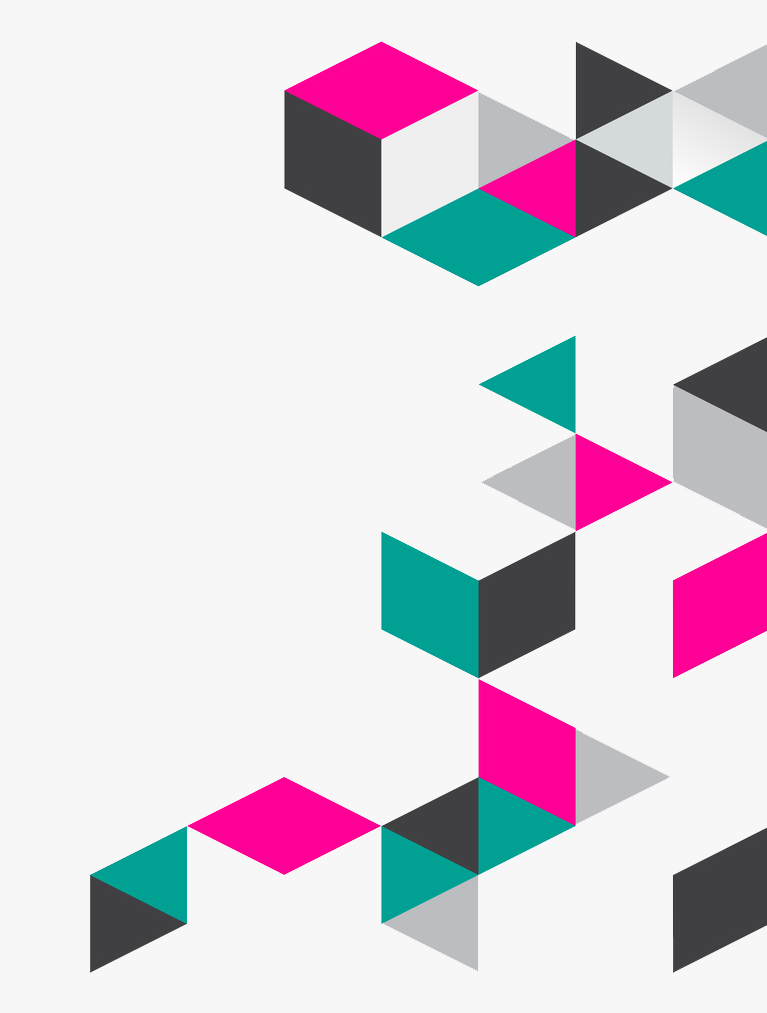
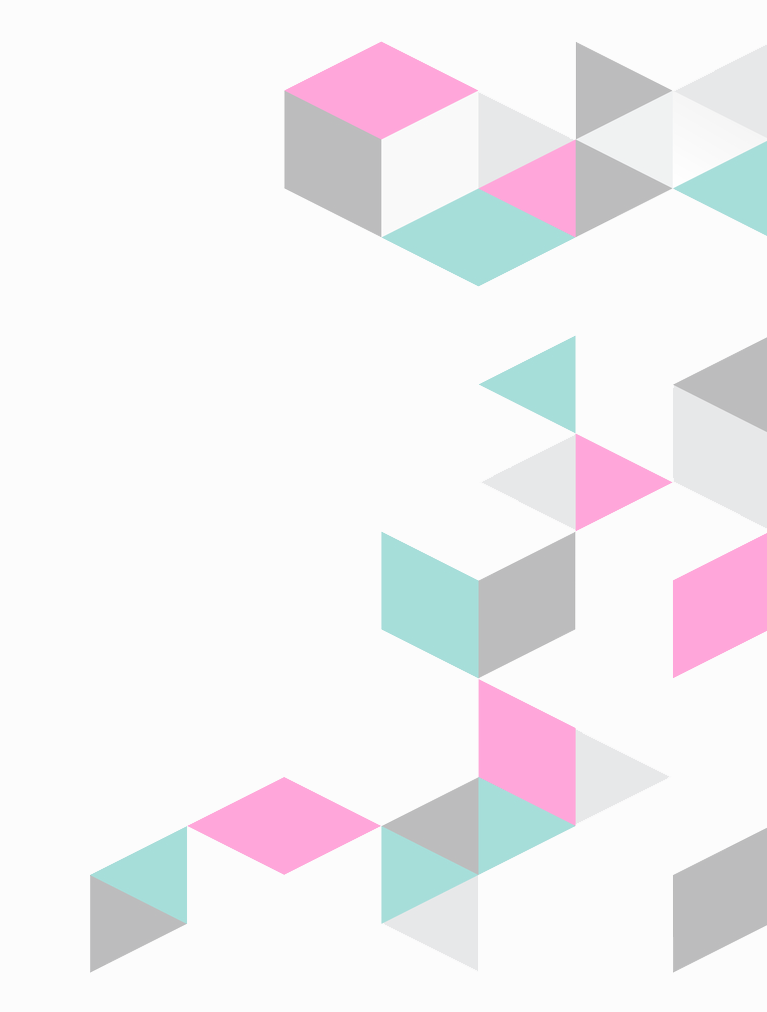
Fix pattern images

Changed region(s): [[0.1199, 0.337, 1.0, 0.9802], [0.3598, 0.0306, 1.0, 0.3063], [0.8696, 0.7964, 1.0, 0.9802]]

diff --git a/assets/styles/style.css b/assets/styles/style.css
@@ -1,7 +1,7 @@
 body {
   font-family: Arial, Helvetica, sans-serif;
   background-color: #f7f7f7;
-  background-image: url("/assets/images/pattern1 2.png");
+  background-image: url("/assets/images/pattern1.png");
   background-position: top right;
   background-repeat: no-repeat;
 }
@@ -37,7 +37,7 @@ body {
 }
 
 .content-section {
-  background-image: url("/assets/images/pattern2 2.png");
+  background-image: url("/assets/images/pattern2.png");
   background-position: left bottom;
   background-repeat: no-repeat;
 }
